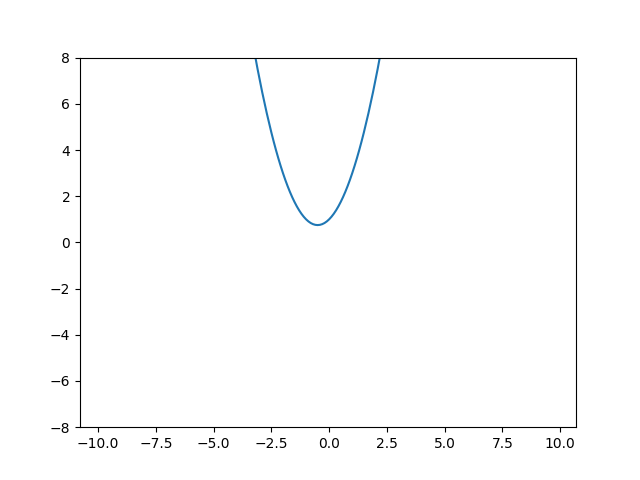
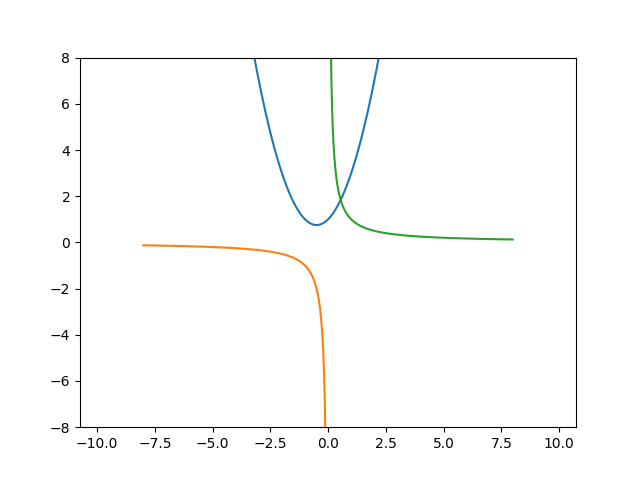
less_6

diff --git a/lab_6_task_2.py b/lab_6_task_2.py
@@ -1,7 +1,7 @@
 import matplotlib.pyplot as plt
 import numpy as np
 
-def parabola(a, b, c):
+def parabola(a,b,c):
     x = np.arange(-8, 8, 0.1)
     y = a*x**2+b*x+c
     plt.plot(x,y)
@@ -9,13 +9,13 @@ def parabola(a, b, c):
     plt.savefig('pic_7.png')
 parabola(1,1,1)
 
-def giperbola(a, b, c):
-    for x in range(-8, 8, 1):
-        y = (a/(x+b))+c
-        d = x+b
-        if d==0:
-            continue
-    plt.plot(x,y)
+def giperbola(a):
+    x1= np.arange(-8,-0.01,0.01)
+    x2= np.arange(0.01,8,0.01)
+    y1=1/x1
+    y2=1/x2
+    plt.plot(x1,y1)
+    plt.plot(x2,y2)
     plt.ylim(-8,8)
     plt.savefig('pic_8.png')
-giperbola(1,1,1)
+giperbola(1)
